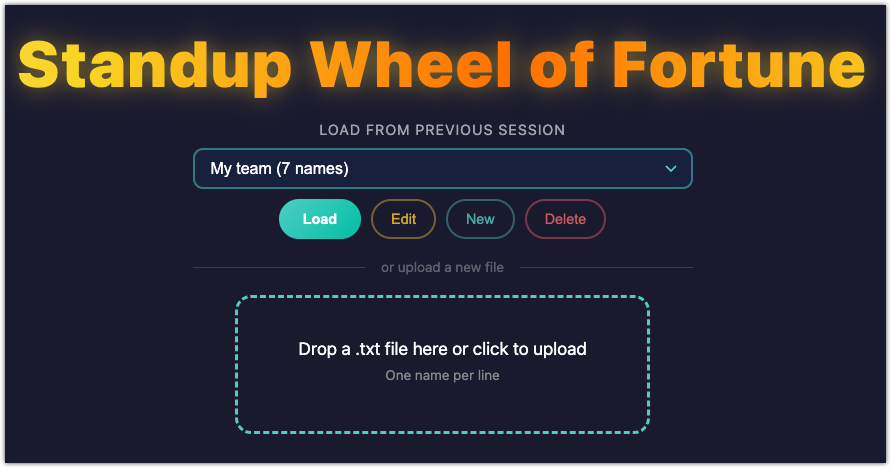
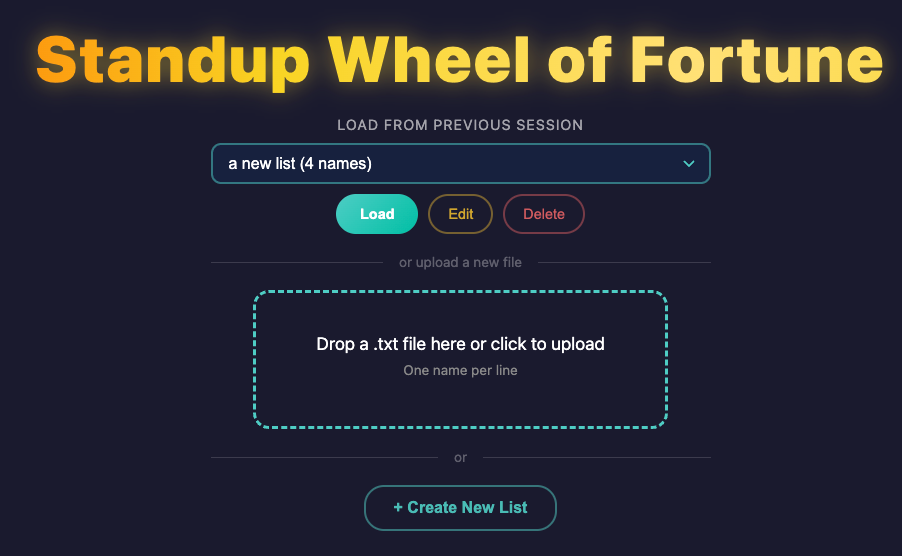
Add 'Create New List' button to first-load screen
- Added a '+ Create New List' button below the upload area so users
  can manually create a list without uploading a file
- Removed the 'New' button from the saved-files dropdown (redundant)
- Updated README screenshots and Managing Teams section

diff --git a/index.html b/index.html
@@ -236,22 +236,6 @@
       color: #fff;
     }
 
-    #new-list-btn {
-      background: none;
-      border: 2px solid rgba(78, 205, 196, 0.4);
-      color: rgba(78, 205, 196, 0.8);
-      padding: 10px 18px;
-      border-radius: 20px;
-      font-size: 0.9rem;
-      cursor: pointer;
-      transition: border-color 0.3s, color 0.3s;
-    }
-
-    #new-list-btn:hover {
-      border-color: #4ECDC4;
-      color: #4ECDC4;
-    }
-
     #edit-name-input {
       background: #1a1a2e;
       color: #fff;
@@ -588,6 +572,30 @@
 
     .toast.warning { border-color: rgba(255, 202, 40, 0.6); }
     .toast.info { border-color: rgba(78, 205, 196, 0.6); }
+
+    #create-new-btn {
+      background: none;
+      border: 2px solid rgba(78, 205, 196, 0.5);
+      color: rgba(78, 205, 196, 0.9);
+      padding: 12px 28px;
+      border-radius: 20px;
+      font-size: 1rem;
+      font-weight: bold;
+      cursor: pointer;
+      margin-bottom: 30px;
+      transition: border-color 0.3s, color 0.3s, transform 0.2s, box-shadow 0.2s;
+    }
+
+    #create-new-btn:hover {
+      border-color: #4ECDC4;
+      color: #fff;
+      transform: scale(1.05);
+      box-shadow: 0 0 15px rgba(78, 205, 196, 0.3);
+    }
+
+    #create-divider {
+      margin-top: -10px;
+    }
   </style>
 </head>
 <body>
@@ -601,7 +609,6 @@
     <div class="saved-actions">
       <button id="load-saved-btn" aria-label="Load selected list">Load</button>
       <button id="edit-saved-btn" aria-label="Edit selected list">Edit</button>
-      <button id="new-list-btn" aria-label="Create new list">New</button>
       <button id="delete-saved-btn" aria-label="Delete selected list">Delete</button>
     </div>
   </div>
@@ -612,6 +619,8 @@
     <p class="hint">One name per line</p>
     <input type="file" id="file-input" accept=".txt,text/plain" aria-label="Choose text file to upload">
   </div>
+  <div class="saved-divider" id="create-divider">or</div>
+  <button id="create-new-btn" aria-label="Create a new list manually">+ Create New List</button>
 
   <div id="wheel-container" role="region" aria-label="Spinning wheel">
     <canvas id="wheel" aria-hidden="true"></canvas>
@@ -722,7 +731,8 @@
   const editTextarea = document.getElementById('edit-textarea');
   const editSaveBtn = document.getElementById('edit-save-btn');
   const editCancelBtn = document.getElementById('edit-cancel-btn');
-  const newListBtn = document.getElementById('new-list-btn');
+  const createNewBtn = document.getElementById('create-new-btn');
+  const createDivider = document.getElementById('create-divider');
 
   const STORAGE_KEY = 'wheel-of-fortune-files';
 
@@ -776,6 +786,8 @@
     uploadArea.style.display = 'none';
     savedFilesEl.style.display = 'none';
     savedDivider.style.display = 'none';
+    createNewBtn.style.display = 'none';
+    createDivider.style.display = 'none';
     wheelContainer.style.display = 'block';
     newFileBtn.style.display = 'block';
     namesCount.style.display = 'block';
@@ -1098,6 +1110,8 @@
     newFileBtn.style.display = 'none';
     namesCount.style.display = 'none';
     uploadArea.style.display = '';
+    createNewBtn.style.display = '';
+    createDivider.style.display = '';
     fileInput.value = '';
     populateSavedFiles();
   });
@@ -1133,7 +1147,7 @@
     editTextarea.focus();
   });
 
-  newListBtn.addEventListener('click', () => {
+  createNewBtn.addEventListener('click', () => {
     editModalTitle.textContent = 'New List';
     editTextarea.value = '';
     editNameInput.value = '';

diff --git a/README.md b/README.md
@@ -32,14 +32,15 @@ Once you upload a file, it is automatically saved to your browser's localStorage
 
 - **Load** a saved team directly onto the wheel
 - **Edit** names or rename the list
-- **New** to create a fresh list without a file
 - **Delete** teams you no longer need
+
+You can also create a new list from scratch using the **+ Create New List** button on the main screen.
 
 ## Screenshots
 
-| Selecting a team | The wheel | Winner! |
+| Selecting a team | New list | Winner! |
 |:---:|:---:|:---:|
-| ![Select team](images/select-team.png) | ![Wheel spinning](images/wheel.png) | ![Winner announced](images/winner.png) |
+| ![Select team](images/select-team.png) | ![New list](images/new-list.png) | ![Winner announced](images/winner.png) |
 
 ## Requirements
 
